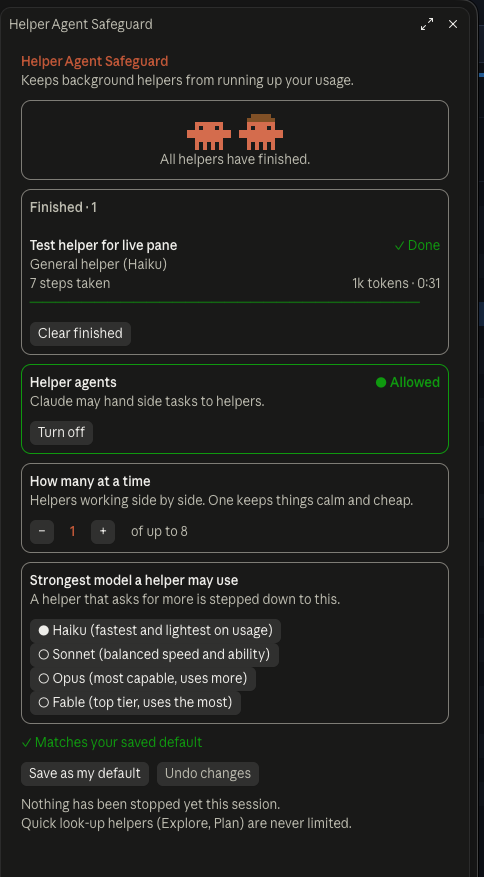
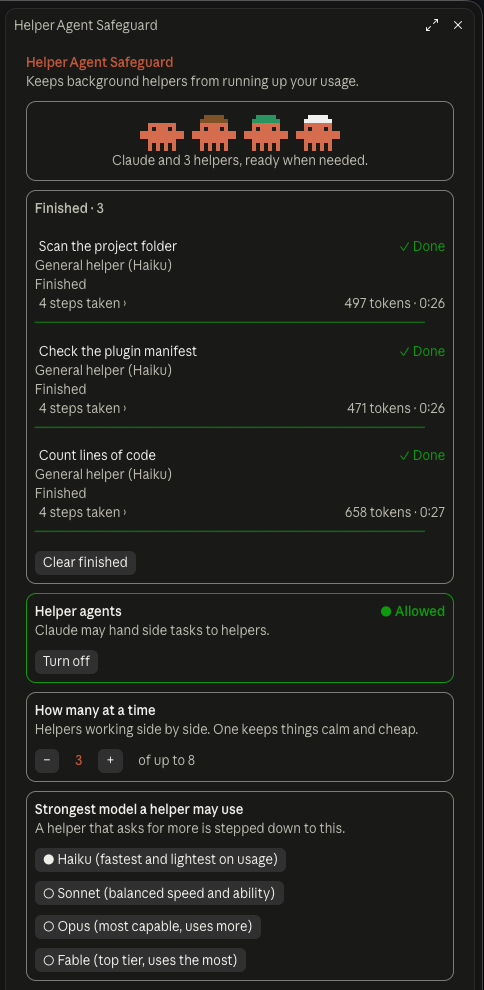
Update README with current screenshots (metadata stripped)

diff --git a/README.md b/README.md
@@ -6,9 +6,31 @@ When Claude hands a side task to a helper agent (a "subagent"), it can start sev
 
 > Unofficial community mod. Not affiliated with, endorsed by, or sponsored by Anthropic.
 
-| While a helper is working | When it has finished |
-|---|---|
-| ![The pane with one helper working](docs/pane-working.png) | ![The pane after a helper finished](docs/pane-finished.png) |
+## A quick look
+
+**Ready and waiting.** Claude and its resting helpers sit in the pen at the top. Below are your three settings: whether helpers are allowed, how many at once, and the strongest model they may use.
+
+<p align="center">
+  <img src="docs/pane-idle.png" alt="The pane when no helper is running" width="380">
+</p>
+
+**Out working.** Each helper's crab leaves the pen and gets its own row, with what it's doing right now, how many steps it has taken, and a running clock.
+
+<p align="center">
+  <img src="docs/pane-working.png" alt="Three helpers working at once" width="380">
+</p>
+
+**Finished.** The crabs head home. Each row keeps its time and token count, and a click opens a plain-language account of what it did.
+
+<p align="center">
+  <img src="docs/pane-finished.png" alt="Three finished helpers with their time and tokens" width="380">
+</p>
+
+**What it did.** A short summary from the helper itself, then a timed, step-by-step list.
+
+<p align="center">
+  <img src="docs/pane-details.png" alt="The details view showing a helper's summary and its steps" width="480">
+</p>
 
 ## What it does
 
